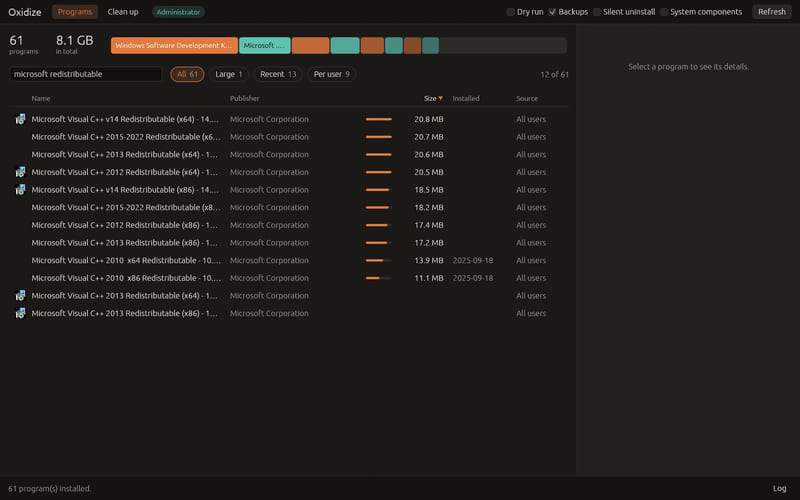
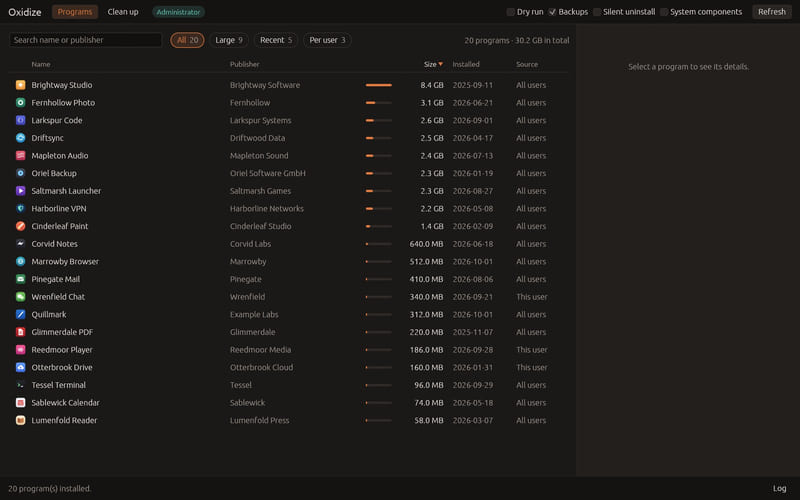
Retake the Oxidize screenshot with example programs

diff --git a/src/constants/projects/oxidize.ts b/src/constants/projects/oxidize.ts
@@ -73,7 +73,7 @@ export const oxidize: Record<Language, LocalizedContent> = {
       },
     ],
     captions: [
-      "The Oxidize window: 61 programs and 8.1 GB at a glance with a bar of the biggest, and the list searched for Microsoft's Visual C++ redistributables. Pick a program to uninstall it and see what it left behind.",
+      "The Oxidize window with a set of example programs, sorted by size: 20 programs, 30.2 GB in total. Pick a program to uninstall it and see what it left behind.",
       "The Oxidize mark: a thick O, copper on one side and the verdigris it oxidises into on the other.",
     ],
     tags: ["Rust", "Windows", "CLI", "egui", "Systems"],
@@ -132,7 +132,7 @@ export const oxidize: Record<Language, LocalizedContent> = {
       },
     ],
     captions: [
-      "Das Oxidize-Fenster: 61 Programme und 8.1 GB auf einen Blick mit einem Balken der grössten, die Liste durchsucht nach den Visual-C++-Laufzeiten von Microsoft. Ein Programm wählen, um es zu deinstallieren und zu sehen, was es zurückgelassen hat.",
+      "Das Oxidize-Fenster mit einer Reihe von Beispielprogrammen, nach Grösse sortiert: 20 Programme, 30.2 GB insgesamt. Ein Programm wählen, um es zu deinstallieren und zu sehen, was es zurückgelassen hat.",
       "Das Oxidize-Zeichen: ein dickes O, auf der einen Seite Kupfer, auf der anderen der Grünspan, zu dem es oxidiert.",
     ],
     tags: ["Rust", "Windows", "CLI", "egui", "Systems"],
@@ -191,7 +191,7 @@ export const oxidize: Record<Language, LocalizedContent> = {
       },
     ],
     captions: [
-      "La fenêtre d'Oxidize : 61 programmes et 8,1 Go d'un coup d'œil avec une barre des plus gros, et la liste filtrée sur les runtimes Visual C++ de Microsoft. Choisis un programme pour le désinstaller et voir ce qu'il a laissé derrière lui.",
+      "La fenêtre d'Oxidize avec une série de programmes d'exemple, triés par taille : 20 programmes, 30,2 Go au total. Choisis un programme pour le désinstaller et voir ce qu'il a laissé derrière lui.",
       "Le logo d'Oxidize : un O épais, cuivre d'un côté, et de l'autre le vert-de-gris en lequel il s'oxyde.",
     ],
     tags: ["Rust", "Windows", "CLI", "egui", "Systems"],
@@ -248,7 +248,7 @@ export const oxidize: Record<Language, LocalizedContent> = {
       },
     ],
     captions: [
-      "Oxidize 窗口：一眼看到 61 个程序、共 8.1 GB，一条横条标出最大的几个，列表筛选为微软的 Visual C++ 运行库。选一个程序，就能卸载它并查看它留下了什么。",
+      "Oxidize 窗口，列出一组示例程序并按大小排序：20 个程序，共 30.2 GB。选一个程序，就能卸载它并查看它留下了什么。",
       "Oxidize 的标志：一个粗粗的 O，一半是铜，另一半是它氧化后的铜绿。",
     ],
     tags: ["Rust", "Windows", "CLI", "egui", "Systems"],
